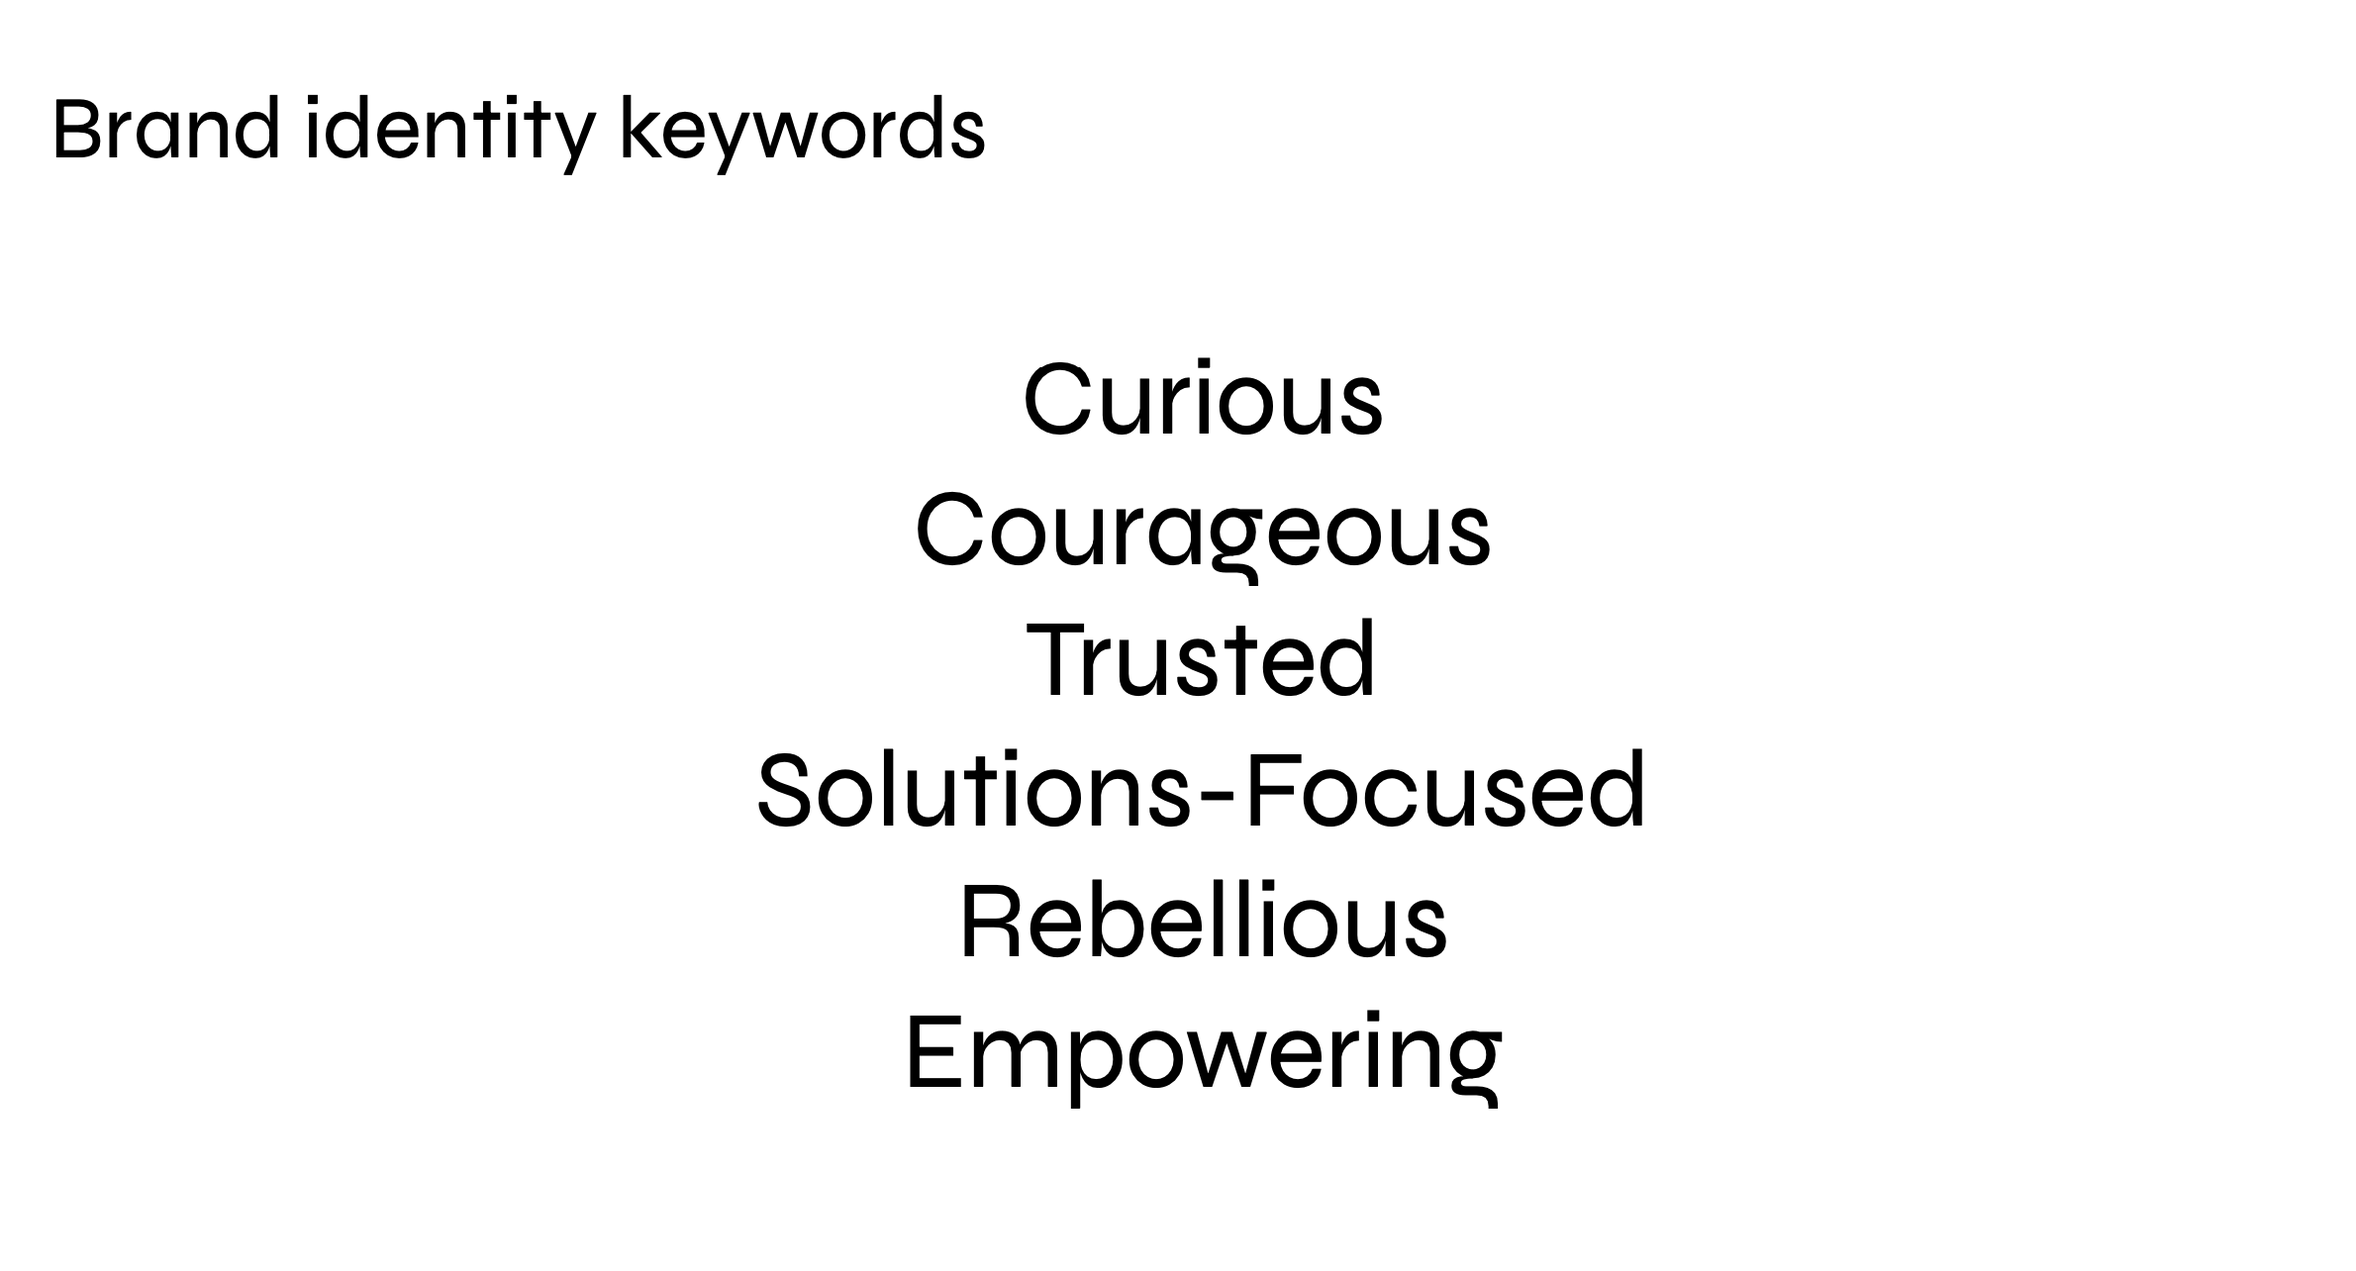
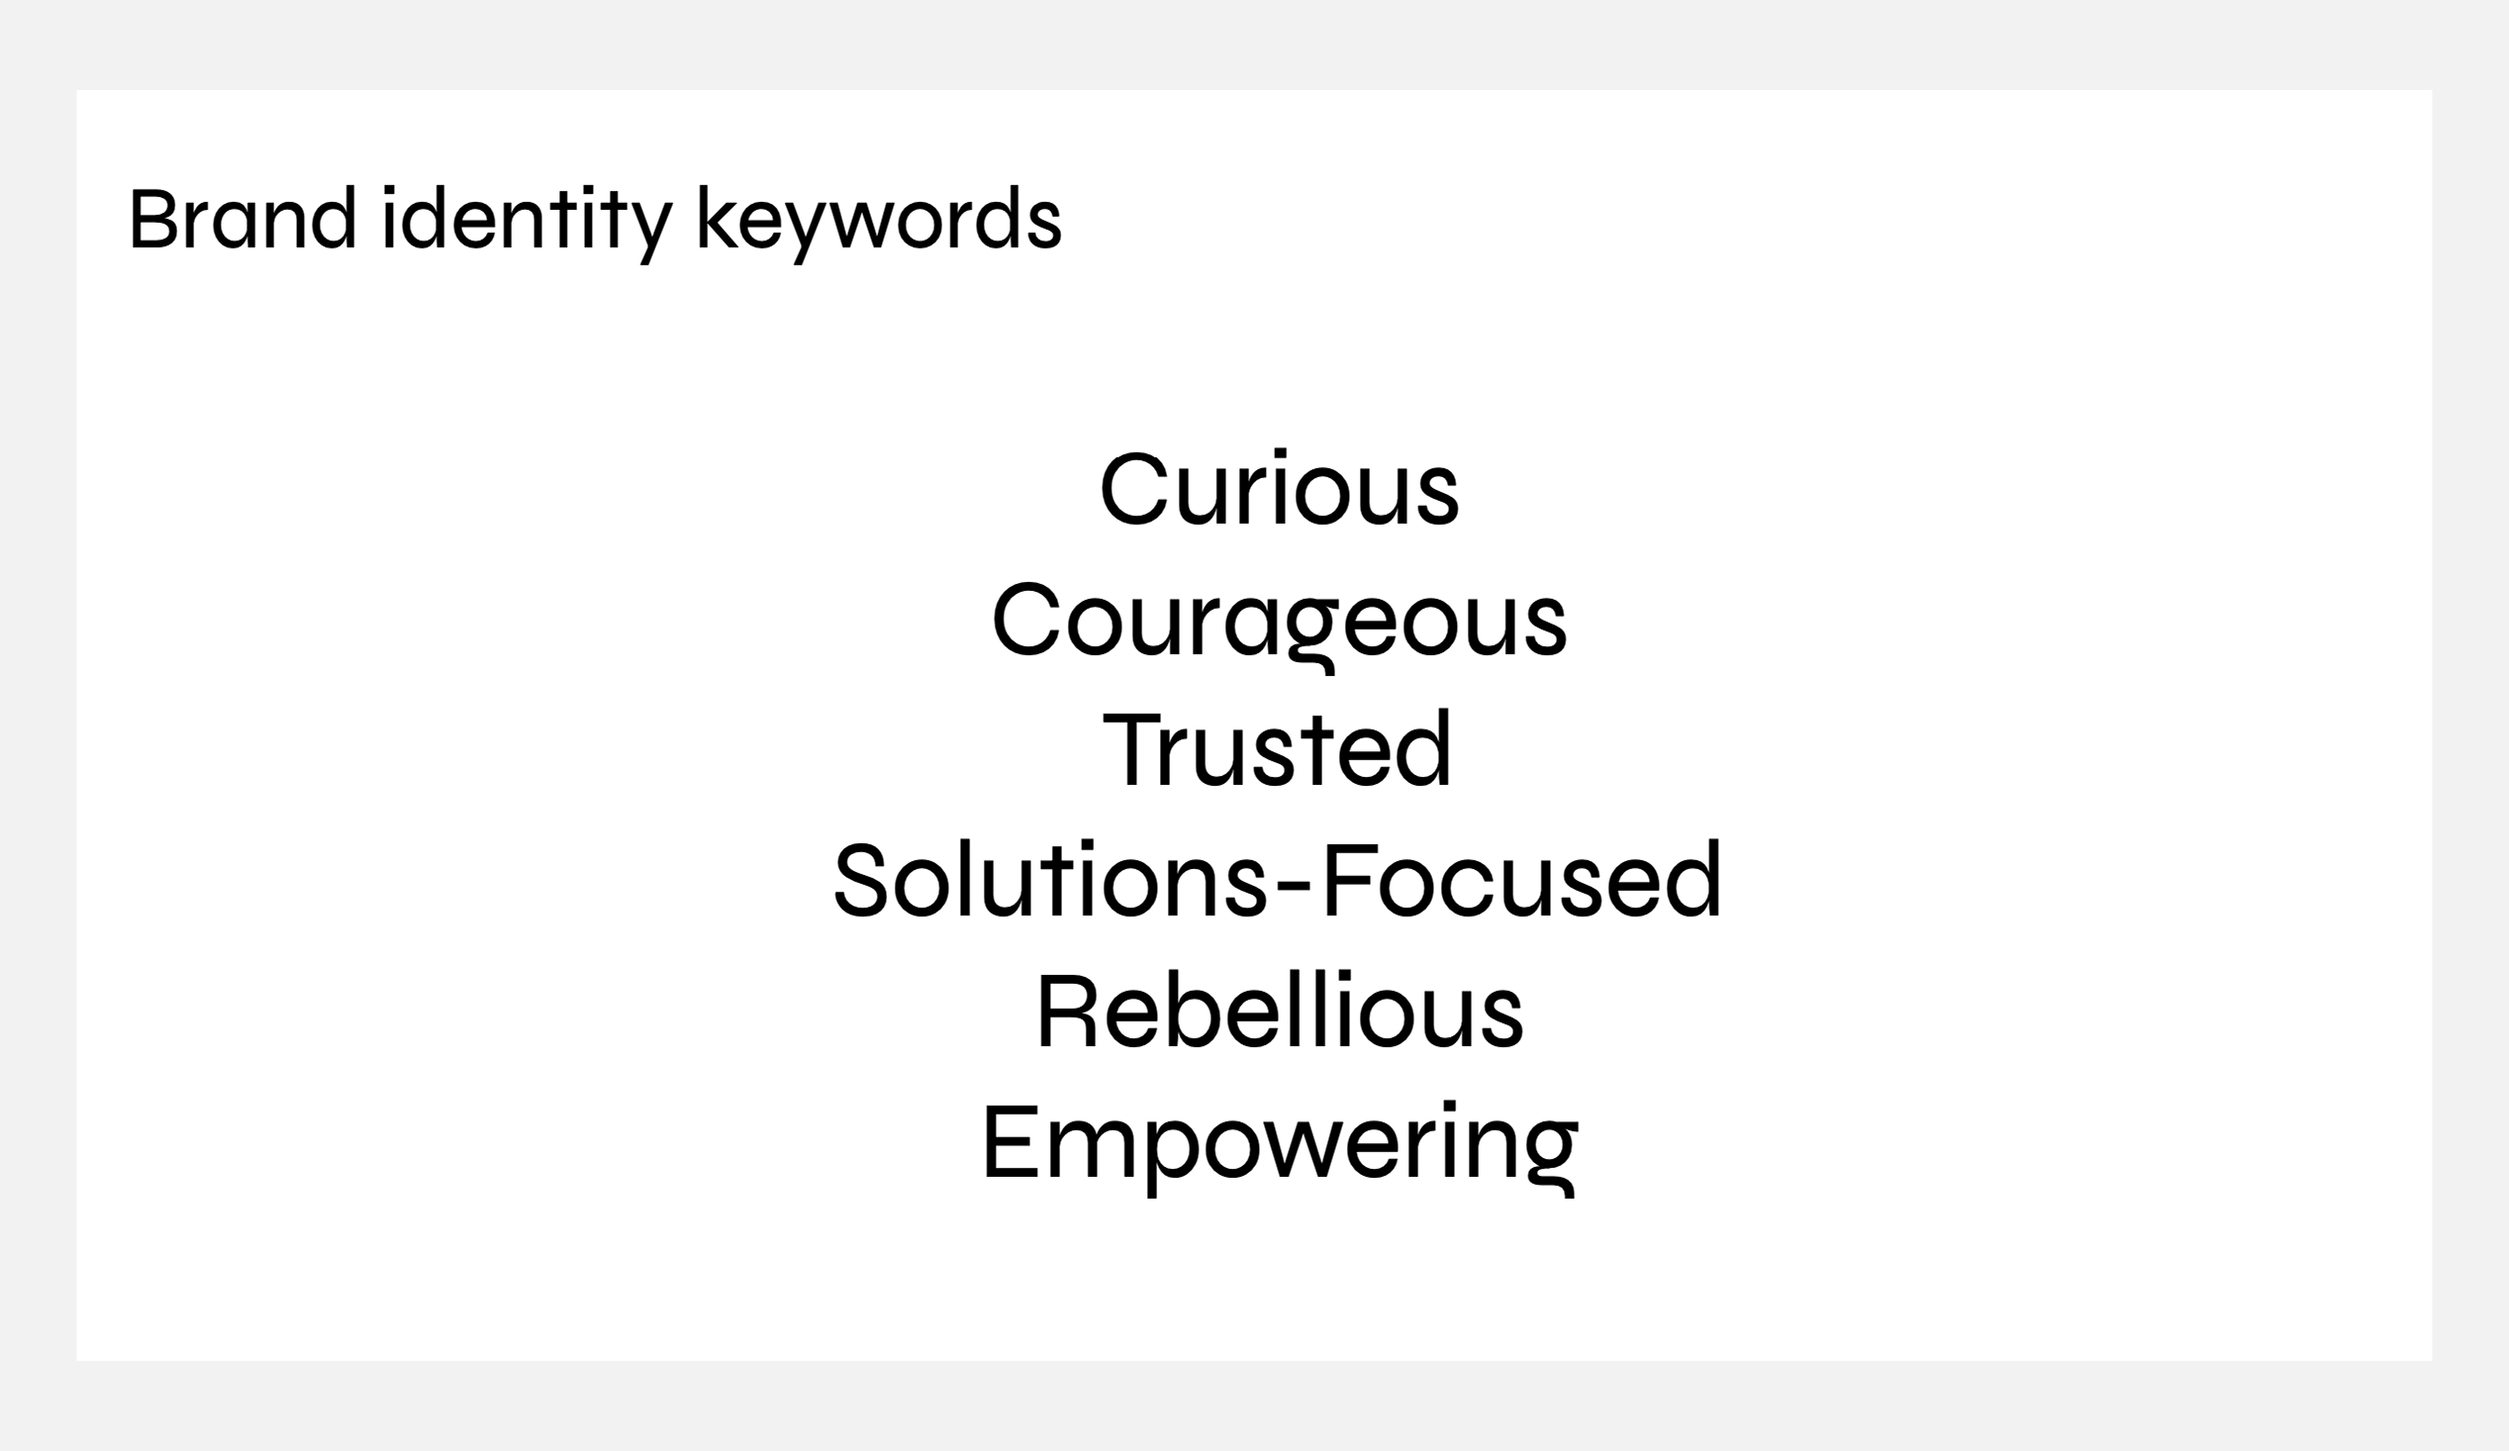
updated assets

Changed region(s): [[0.3109, 0.2804, 0.7151, 0.8723], [0.0, 0.0623, 0.4353, 0.1869]]

diff --git a/projects/Execuvu.html b/projects/Execuvu.html
@@ -81,9 +81,9 @@
       
     <section class="small-wrapper">
       <div class="example-img">
-        <img src="../assets/example-img.png" alt="">
+        <img src="../assets/Execuvu/ExecuvuKeywords.png" alt="Picture of brand keywords">
       </div>
-      <p class="example-caption">1.1 Caption this yo</p>
+      <p class="example-caption">1.1 Brand Keywords</p>
     </section>
 
     <section class="project-fullbleed">
